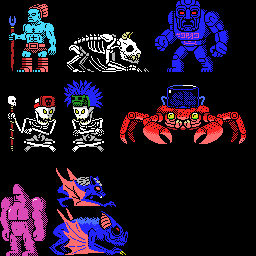
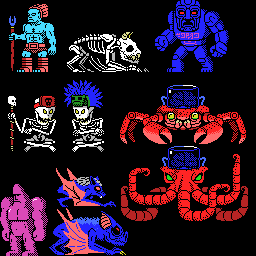
spawned boss 5 room objects

Changed region(s): [[0.4688, 0.5625, 0.9688, 0.875]]

diff --git a/java/src/pcg/AssemblerTags.java b/java/src/pcg/AssemblerTags.java
@@ -224,6 +224,8 @@ public class AssemblerTags {
         "TAG_XIBALBA_BOSS_GRAVE",
         "TAG_GOLDEN_KEY",
         "TAG_SKULL_CHARM",
+        "TAG_POSEIDON_LEVER",
+        "TAG_POSEIDON_BOSS_DISPLAY",
         // npcs:
         "TAG_NPC_SHOPKEEPER",
         "TAG_NPC_SHOP",
